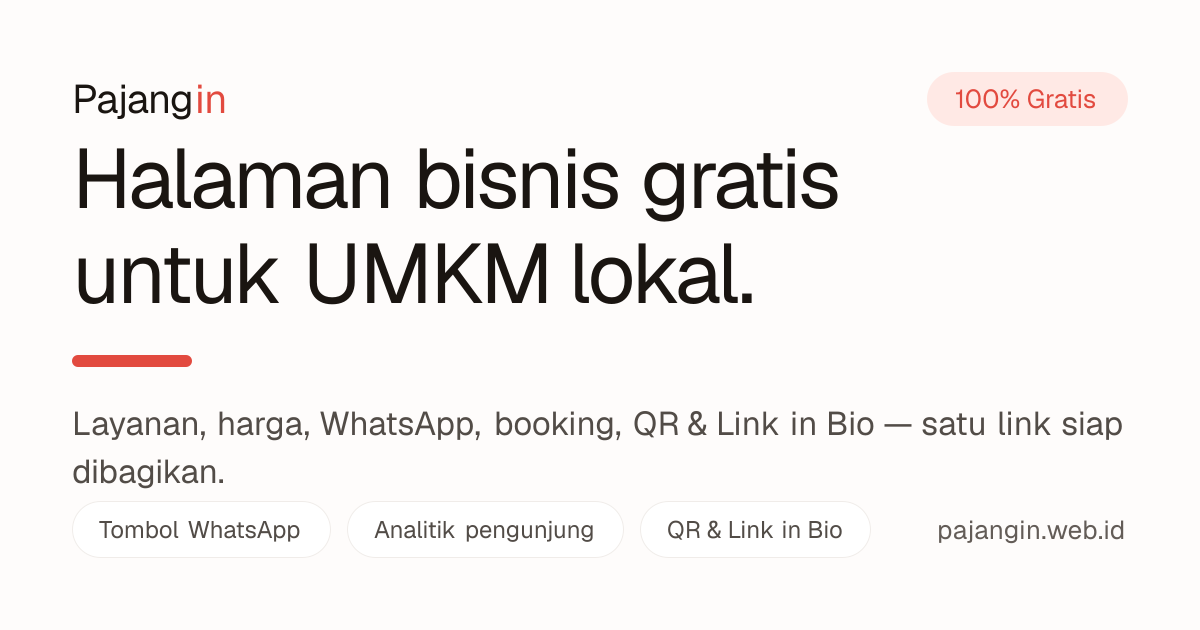
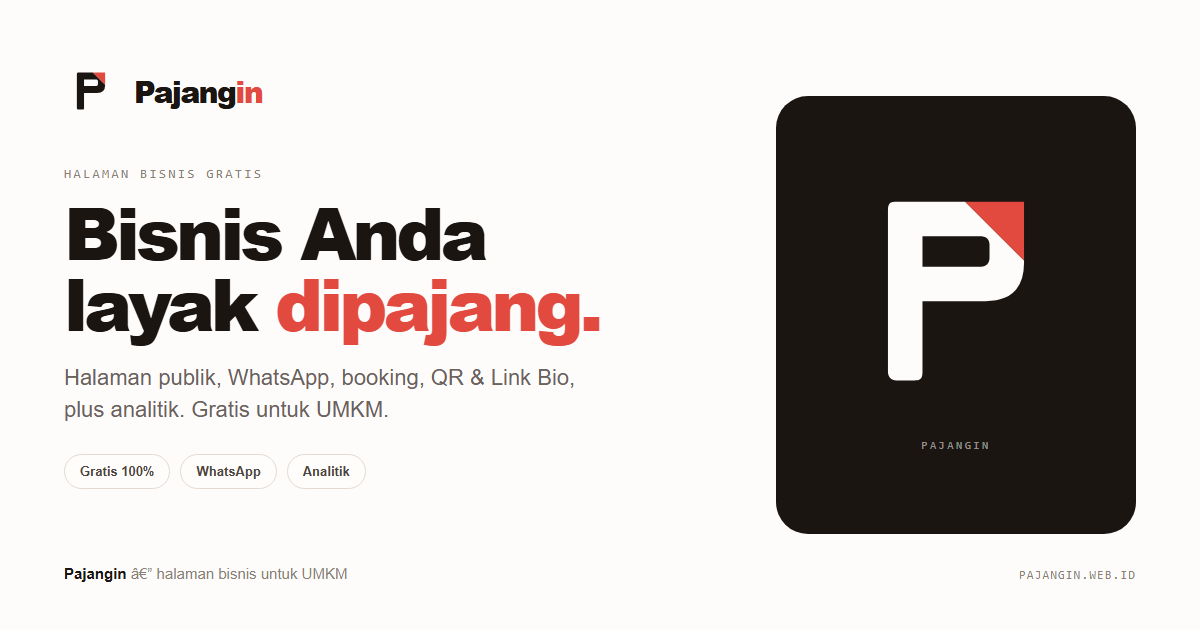
feat(brand): aset P Page, ikon PWA, dan manifest

diff --git a/apps/frontend/app/manifest.ts b/apps/frontend/app/manifest.ts
@@ -1,0 +1,39 @@
+import type { MetadataRoute } from 'next';
+
+// Manifest PWA memakai aset brand di public/icons.
+export default function manifest(): MetadataRoute.Manifest {
+  return {
+    id: '/',
+    name: 'Pajangin — Halaman Bisnis & Analitik Gratis untuk UMKM',
+    short_name: 'Pajangin',
+    description:
+      'Halaman bisnis lokal gratis: layanan, harga, WhatsApp, booking, QR & Link Bio, plus analitik pengunjung.',
+    start_url: '/',
+    scope: '/',
+    display: 'standalone',
+    background_color: '#FEFCFB',
+    theme_color: '#1A1511',
+    lang: 'id',
+    categories: ['business', 'productivity'],
+    icons: [
+      {
+        src: '/icons/icon-192.png',
+        sizes: '192x192',
+        type: 'image/png',
+        purpose: 'any',
+      },
+      {
+        src: '/icons/icon-512.png',
+        sizes: '512x512',
+        type: 'image/png',
+        purpose: 'any',
+      },
+      {
+        src: '/icons/maskable-512.png',
+        sizes: '512x512',
+        type: 'image/png',
+        purpose: 'maskable',
+      },
+    ],
+  };
+}

diff --git a/apps/frontend/app/layout.tsx b/apps/frontend/app/layout.tsx
@@ -1,4 +1,4 @@
-import type { Metadata } from 'next';
+import type { Metadata, Viewport } from 'next';
 import { Bricolage_Grotesque, Geist, Geist_Mono } from 'next/font/google';
 import { DEFAULT_OG_IMAGE, SITE_DESCRIPTION, SITE_NAME, SITE_URL } from '../lib/seo';
 import './globals.css';
@@ -24,6 +24,7 @@ const TITLE = 'Pajangin — Halaman Bisnis & Analitik Gratis untuk UMKM';
 
 export const metadata: Metadata = {
   metadataBase: new URL(SITE_URL),
+  applicationName: 'Pajangin',
   title: TITLE,
   description: SITE_DESCRIPTION,
   openGraph: {
@@ -41,6 +42,11 @@ export const metadata: Metadata = {
     description: SITE_DESCRIPTION,
     images: [DEFAULT_OG_IMAGE],
   },
+};
+
+export const viewport: Viewport = {
+  themeColor: '#1A1511',
+  colorScheme: 'light',
 };
 
 export default function RootLayout({

diff --git a/apps/frontend/public/brand/README.md b/apps/frontend/public/brand/README.md
@@ -1,0 +1,49 @@
+# Pajangin brand assets
+
+## Warna
+
+| Token | Hex | Pakai |
+| --- | --- | --- |
+| Ink | `#1A1511` | Latar app icon, teks utama, mark di latar terang |
+| Paper | `#FEFCFB` | Latar terang, mark di latar gelap |
+| Coral | `#E24A3F` | Aksen lipatan halaman, kata “in” pada wordmark |
+
+Coral adalah aksen, bukan latar utama. Jangan menaruh mark di atas blok coral penuh.
+
+## Mark dan logo
+
+| File | Ukuran | Catatan |
+| --- | --- | --- |
+| `pajangin-mark-ink.svg` | vektor | Mark ink + lipatan coral, untuk latar terang |
+| `pajangin-mark-paper.svg` | vektor | Mark paper + lipatan coral, untuk latar gelap |
+| `pajangin-mark-1024.png` | 1024×1024 | Transparan |
+| `pajangin-logo-light.svg` | 1200×400 | Wordmark ink + coral, font Bricolage tertanam |
+| `pajangin-logo-dark.svg` | 1200×400 | Wordmark paper + coral, font Bricolage tertanam |
+| `pajangin-logo-light.png` | 1200×400 | Transparan, untuk platform eksternal |
+| `pajangin-logo-dark.png` | 1200×400 | Transparan, untuk platform eksternal |
+
+## App icon dan PWA
+
+| File | Ukuran | Catatan |
+| --- | --- | --- |
+| `app/icon.png` | 512×512 | Ikon utama, full-bleed ink |
+| `app/apple-icon.png` | 180×180 | Apple touch icon, full-bleed ink |
+| `app/favicon.ico` | 16/32/48 | Multi-size ICO |
+| `public/icons/icon-192.png` | 192×192 | PWA |
+| `public/icons/icon-512.png` | 512×512 | PWA |
+| `public/icons/maskable-512.png` | 512×512 | Safe zone maskable |
+| `public/icons/social-avatar-512.png` | 512×512 | Avatar sosial |
+
+## OG
+
+| File | Ukuran | Catatan |
+| --- | --- | --- |
+| `public/og.png` | 1200×630 | OG/Twitter card default |
+
+## Aturan pakai
+
+- Jangan mengubah warna lipatan coral atau memakai gradasi.
+- Jangan menambahkan bayangan, 3D, atau outline.
+- Di latar terang pakai mark ink; di latar gelap pakai mark paper.
+- Ukuran minimum mark: 16px. Di bawah itu, gunakan versi yang disederhanakan.
+- Logo PNG adalah sumber utama untuk platform eksternal; SVG logo menyertakan font Bricolage agar teks tetap konsisten.
